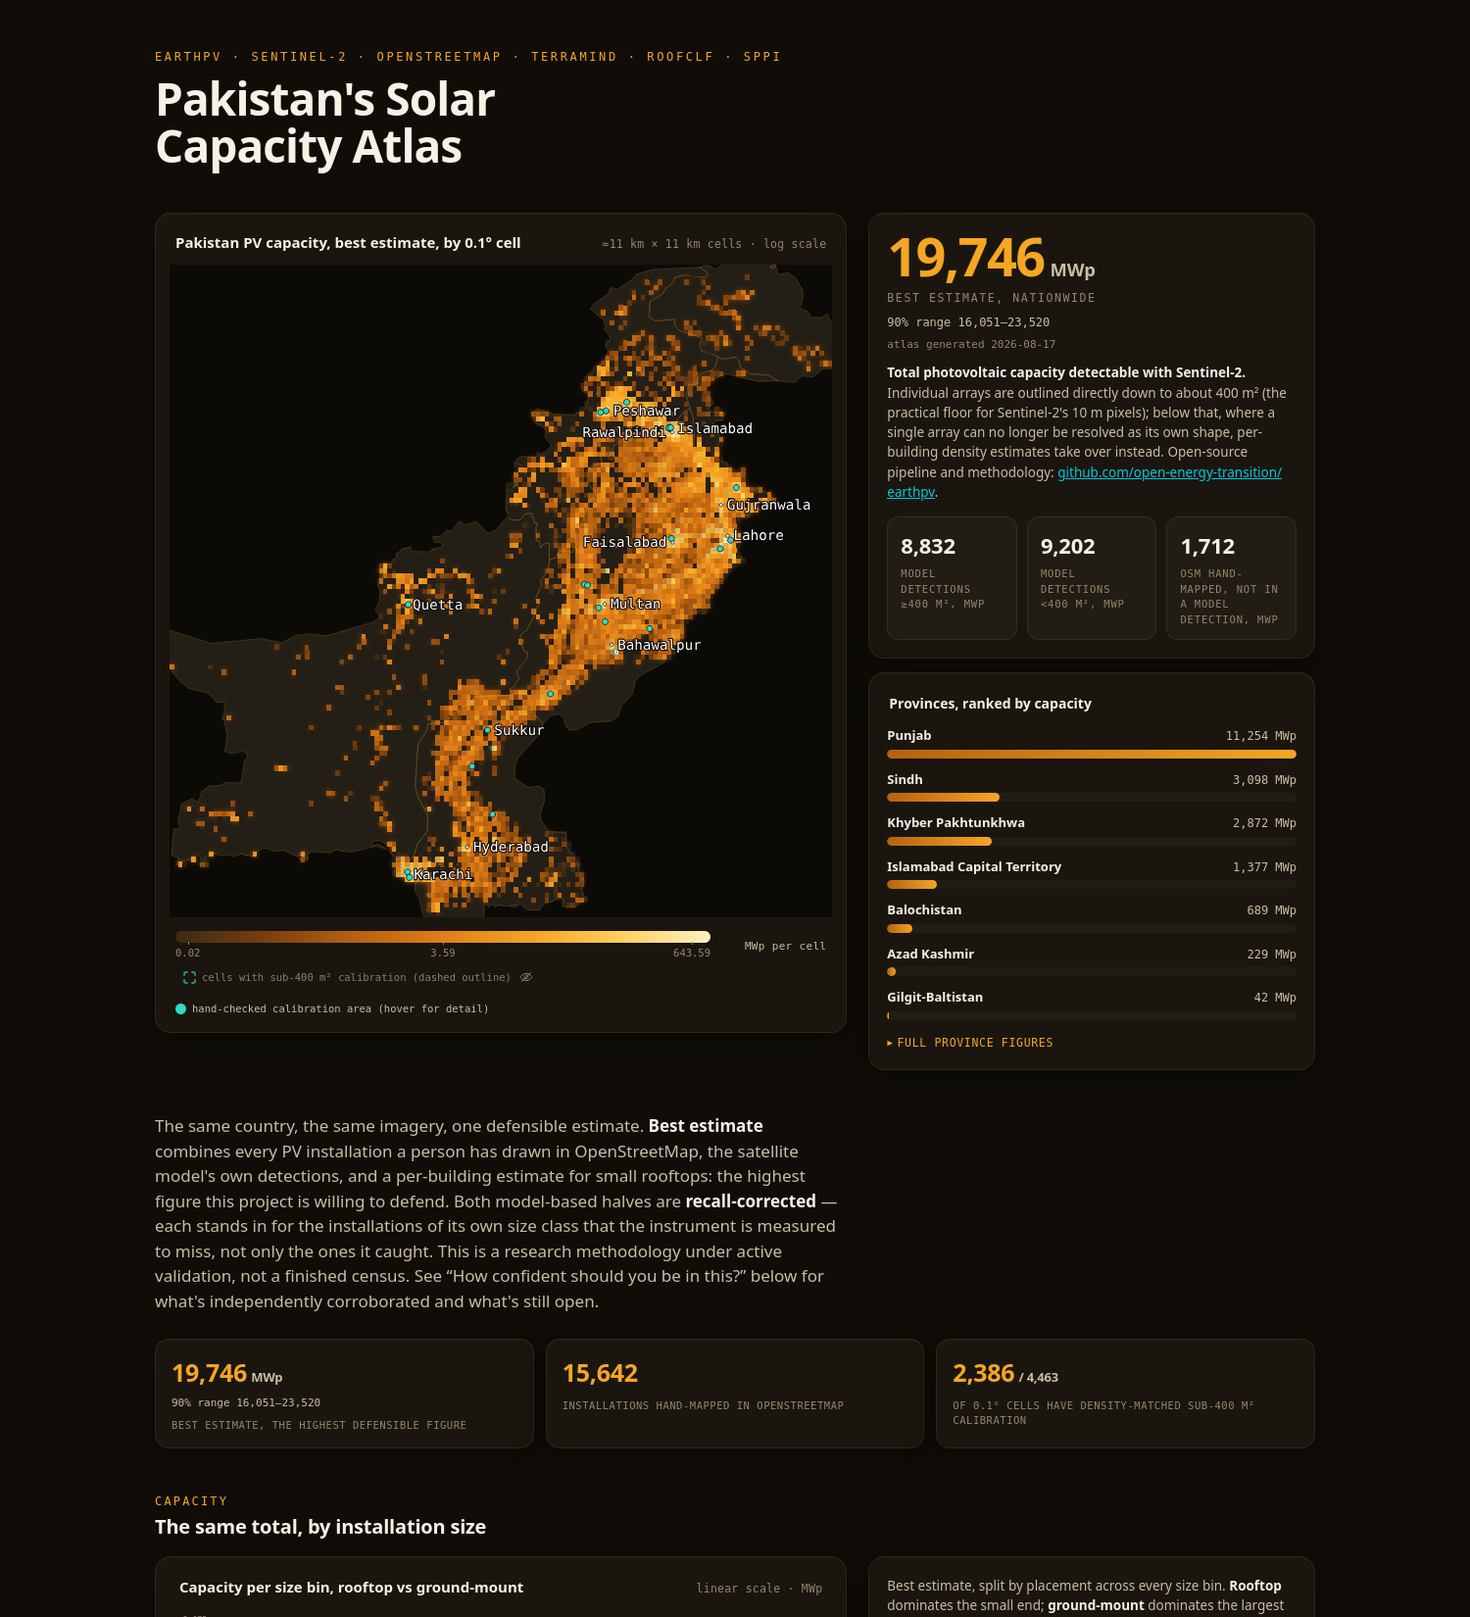
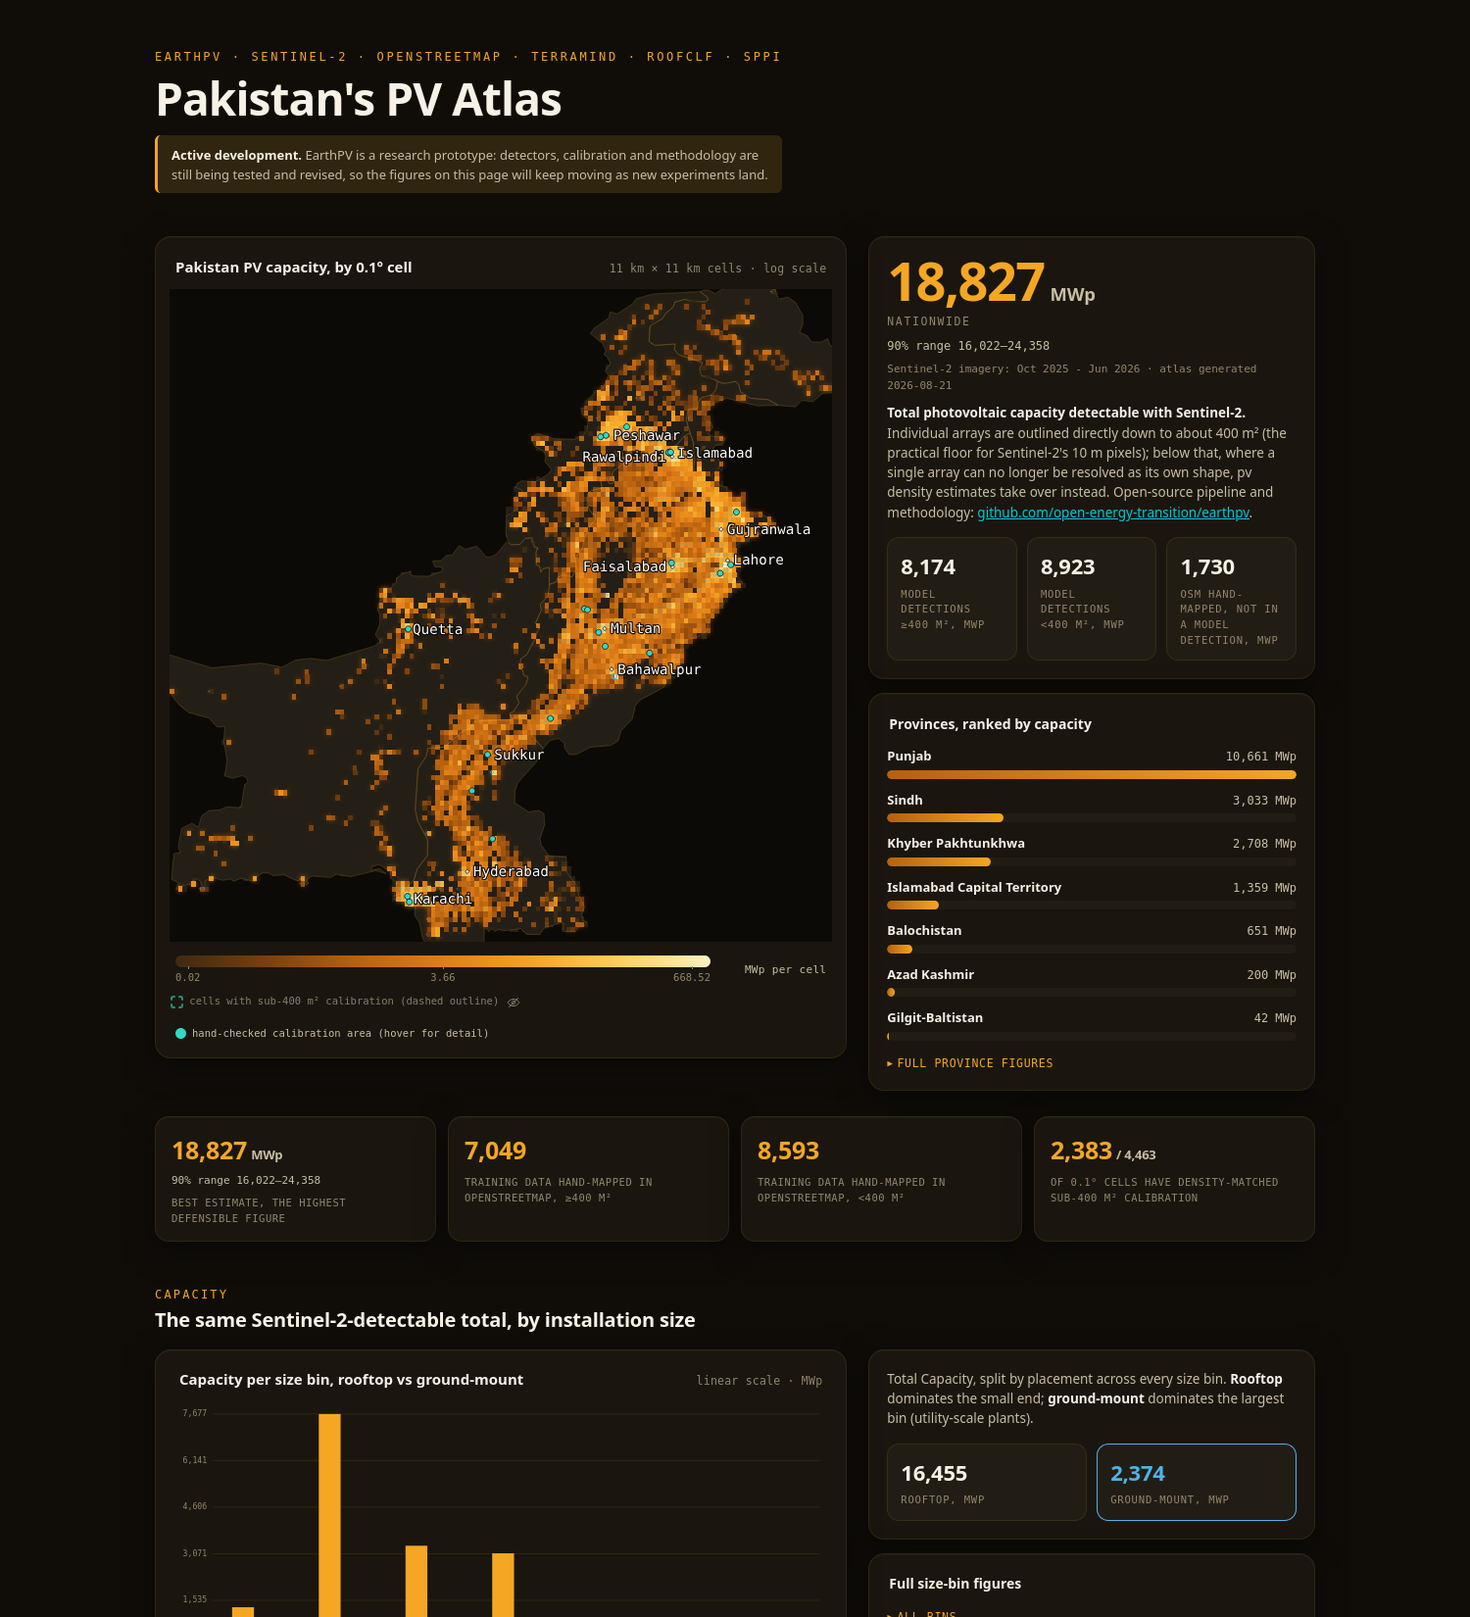
added images

diff --git a/scripts/build_docs_figures.py b/scripts/build_docs_figures.py
@@ -1840,6 +1840,166 @@ def write_roofclf_diagram():
         print(f"  wrote {path.relative_to(ROOT)}")
 
 
+# ---------------------------------------------- generated evidence-atlas workflow diagram
+#
+# The architecture diagram above maps the whole system at once, auxiliary instruments
+# included; this one is the companion the README and the Overview page embed. It shows
+# only the main workflow -- the two detectors that feed the published evidence atlas,
+# the ground truth both are measured against, and how their numbers are de-duplicated
+# and floored into one headline figure. Path colours follow COMPOSITION_SLOT (blue =
+# segmentation, orange = roofclf, teal = hand-mapped OSM) so this diagram and the atlas
+# composition chart never disagree on what a source looks like.
+
+EVW_W = 1150
+EVW_H = 890
+# Transcribed from the 2026-08-20 Box 18 refit's published atlas (`data/` and `results/`
+# are gitignored, so the docs CI can read neither) -- same caveat as ROOFCLF_STATS
+# above: re-transcribe these in the same commit as any pipeline run that moves the
+# atlas, together with the alt text in README.md and docs/index.md.
+EVW_STATS = {
+    "n_quadrats": 30,
+    "pct_domain_cells": 66,       # 2,957 of 4,463 national cells
+    "pct_domain_buildings": 95,   # 94.7% of national buildings
+    "mwp_best": 18827,
+    "ci_lo": 16022,
+    "ci_hi": 24358,
+}
+
+
+def build_evidence_workflow_svg(t: Theme) -> str:
+    boxes: dict[str, tuple[float, float, float, float]] = {}
+    parts: list[str] = []
+    s = EVW_STATS
+
+    def box(key, x, y, w, h, title, lines, stroke=None):
+        _svg_box(parts, boxes, t, key, x, y, w, h, title, lines, stroke)
+
+    def arrow(k1, k2, color, *, from_side="bottom", to_side="top", label=None):
+        sx, sy = _svg_anchor(boxes, k1, from_side)
+        tx, ty = _svg_anchor(boxes, k2, to_side)
+        if abs(sy - ty) < 1:  # horizontal hop between neighbours in one lane
+            path = f"M{sx:.0f},{sy:.0f} H{tx:.0f}"
+        else:
+            path = _elbow(sx, sy, tx, ty)
+        marker_id = f"ah-{color.lstrip('#')}-{t.name}"
+        parts.append(f'<path d="{path}" stroke="{color}" stroke-width="1.7" fill="none" '
+                     f'marker-end="url(#{marker_id})"/>')
+        if label:
+            mx, my = (sx + tx) / 2, (sy + ty) / 2 - 6
+            parts.append(f'<text x="{mx:.0f}" y="{my:.0f}" font-size="9.2" fill="{color}" '
+                         f'text-anchor="middle">{_esc(label)}</text>')
+
+    def lane_label(text, y):
+        parts.append(f'<text x="{ARCH_MARGIN}" y="{y:.0f}" font-size="11.3" '
+                     f'font-weight="600" fill="{t.ink_dim}">{_esc(text)}</text>')
+
+    def note(text, y):
+        parts.append(f'<text x="{ARCH_MARGIN}" y="{y:.0f}" font-size="9.6" '
+                     f'font-style="italic" fill="{t.ink_dim}">{_esc(text)}</text>')
+
+    title = "How the evidence atlas is built"
+    subtitle = ("Two detectors, split by placement and calibration coverage rather than by "
+                "size alone, measured against hand-mapped ground truth and combined into one "
+                "defensible figure.")
+    parts.append(f'<text x="{ARCH_MARGIN}" y="38" font-size="17.5" font-weight="600" '
+                 f'fill="{t.ink}">{_esc(title)}</text>')
+    parts.append(f'<text x="{ARCH_MARGIN}" y="60" font-size="12" fill="{t.ink_dim}">'
+                 f'{_esc(subtitle)}</text>')
+
+    # Lane A - inputs
+    lane_label("What goes in - all of it free and global", 84)
+    xa, wa = _row_x(3, gap=40, width=EVW_W - 2 * ARCH_MARGIN)
+    box("a1", xa[0], 90, wa, 88, "Sentinel-2 imagery",
+        ["10 m dry-season composites,", "refreshed every five days;", "both detectors read it"])
+    box("a2", xa[1], 90, wa, 88, "OpenStreetMap solar",
+        ["hand-mapped installations:", "training labels, and counted", "directly in the atlas"],
+        stroke=t.s3)
+    box("a3", xa[2], 90, wa, 88, "Building footprints",
+        ["VIDA (Google + Microsoft):", "every roof, including small", "unmapped ones"])
+
+    # Lane B - the two detectors
+    lane_label("Two detectors", 232)
+    xb, wb = _row_x(2, gap=90, width=EVW_W - 2 * ARCH_MARGIN)
+    box("b1", xb[0], 238, wb, 88, "Segmentation (TerraMind fine-tune)",
+        ["outlines individual arrays ≥ 400 m² directly in the pixels;",
+         "the only instrument for ground-mount PV at any size,",
+         "and the source of every human-checkable mapping lead"], stroke=t.s2)
+    box("b2", xb[1], 238, wb, 88, "roofclf, cross-checked with SPPI",
+        ["asks \"does this roof carry PV?\" for every building;",
+         "the only instrument below 400 m², and the better",
+         "rooftop one wherever it has been calibrated"], stroke=t.s1)
+
+    # Lane C - calibration against ground truth. Keep this label short: the arrows out
+    # of lane B drop through the label band, and a long label collides with them.
+    lane_label("Calibration", 380)
+    xc, wc = _row_x(3, gap=40, width=EVW_W - 2 * ARCH_MARGIN)
+    box("c1", xc[0], 386, wc, 88, "Precision + recall calibration",
+        ["each detection weighted by", "measured P(real | size, glint,",
+         "placement), then recall-corrected"], stroke=t.s2)
+    box("c0", xc[1], 386, wc, 88, f"Ground truth: {s['n_quadrats']} quadrats",
+        ["hand-mapped boxes with every", "visible panel traced; the",
+         "measuring stick for both sides"])
+    box("c2", xc[2], 386, wc, 88, "Coverage ratio + area recall",
+        ["fit per building size and density", "stratum; trusted only where cell density",
+         f"matches: {s['pct_domain_cells']}% of cells, {s['pct_domain_buildings']}% of buildings"],
+        stroke=t.s1)
+
+    # Lane D - combine
+    lane_label("Combined, never double-counted", 528)
+    dw = 640.0
+    box("d1", (EVW_W - dw) / 2, 534, dw, 122, "One best instrument per component",
+        ["ground-mount at any size: segmentation",
+         "rooftop ≥ 400 m²: roofclf inside its calibrated cells, segmentation elsewhere",
+         "rooftop < 400 m²: roofclf, cross-checked with SPPI",
+         "hand-mapped OSM counts first; detections overlapping it are removed",
+         "each cell floored at OSM plus the stricter roofclf-AND-SPPI agreement"])
+
+    # Lane E - output
+    lane_label("Published output", 710)
+    ew = 500.0
+    box("e1", (EVW_W - ew) / 2, 716, ew, 64, "Evidence atlas",
+        [f"Best estimate {s['mwp_best']:,} MWp, 90% range {s['ci_lo']:,} - {s['ci_hi']:,},",
+         "per 0.1° cell and province, with the size split made explicit"], stroke=t.s3)
+
+    note("Hand-mapped OSM also flows into the combine step directly, as its own component "
+         "and as part of the per-cell floor (long arrow omitted for clarity).", 816)
+    note("Blue = segmentation path, orange = roofclf path, teal = hand-mapped OpenStreetMap "
+         "- the same colours the atlas composition chart uses for these sources.", 834)
+    note("The 90% range composes the measured calibration uncertainties above instead of "
+         "hiding them; the headline is a modelled estimate, not a metered figure.", 852)
+
+    arrow("a1", "b1", t.s2)
+    arrow("a1", "b2", t.s1)
+    arrow("a2", "b1", t.ink_dim, label="training labels")
+    arrow("a3", "b2", t.ink_dim, label="one row per roof")
+    arrow("b1", "c1", t.s2)
+    arrow("b2", "c2", t.s1)
+    arrow("c0", "c1", t.ink_dim, from_side="left", to_side="right")
+    arrow("c0", "c2", t.ink_dim, from_side="right", to_side="left")
+    arrow("c1", "d1", t.s2)
+    arrow("c2", "d1", t.s1)
+    arrow("d1", "e1", t.ink_dim)
+
+    markers = _svg_markers(t)
+    return (
+        f'<svg xmlns="http://www.w3.org/2000/svg" width="{EVW_W}" height="{EVW_H}" '
+        f'viewBox="0 0 {EVW_W} {EVW_H}" font-family="DejaVu Sans, system-ui, sans-serif">'
+        f'<defs>{"".join(markers)}</defs>'
+        f'<rect width="{EVW_W}" height="{EVW_H}" rx="10" fill="{t.surface}"/>'
+        f'{"".join(parts)}</svg>'
+    )
+
+
+def write_evidence_workflow_diagram():
+    OUT.mkdir(parents=True, exist_ok=True)
+    for t in THEMES:
+        svg = build_evidence_workflow_svg(t)
+        suffix = ".svg" if t.name == "light" else ".dark.svg"
+        path = OUT / f"evidence_workflow{suffix}"
+        path.write_text(svg)
+        print(f"  wrote {path.relative_to(ROOT)}")
+
+
 def write_svg_pair(template: str, stem: str):
     for t in THEMES:
         svg = template.format(surface=t.surface, ink=t.ink, dim=t.ink_dim, rule=t.rule,
@@ -1852,6 +2012,32 @@ def write_svg_pair(template: str, stem: str):
 
 
 # ------------------------------------------------------------------- raster crop
+
+
+GLINT_HERO_SRC = ROOT / "docs" / "glint_examples_HR" / "glint8.png"
+
+
+def derive_glint_example():
+    """Half-size, JPEG-compressed copy of the README/Overview glint hero.
+
+    The gallery page keeps the full-resolution PNG (1.3 MB); the two landing-page
+    embeds only need half the pixels and a fraction of the bytes, so they read this
+    derived copy instead. The source is tracked, so CI can rebuild it too.
+    """
+    try:
+        from PIL import Image
+    except ImportError:
+        print("  pillow not installed, skipping glint example derivation")
+        return
+    if not GLINT_HERO_SRC.exists():
+        print(f"  {GLINT_HERO_SRC.relative_to(ROOT)} missing, skipping glint example")
+        return
+    OUT.mkdir(parents=True, exist_ok=True)
+    im = Image.open(GLINT_HERO_SRC).convert("RGB")
+    im = im.resize((im.width // 2, im.height // 2), Image.LANCZOS)
+    dst = OUT / "glint_example.jpg"
+    im.save(dst, quality=82, optimize=True)
+    print(f"  wrote {dst.relative_to(ROOT)} ({im.width}x{im.height})")
 
 
 def crop_hero_map():
@@ -2042,10 +2228,12 @@ def main():
     write_svg_pair(PIPELINE_STRIP, "two_products")
     write_architecture_diagram()
     write_roofclf_diagram()
+    write_evidence_workflow_diagram()
     print("logo")
     derive_logo()
     print("rasters")
     crop_hero_map()
+    derive_glint_example()
     print("static rasters")
     copy_static_rasters()
     print("interactive pages")

diff --git a/docs/index.md b/docs/index.md
@@ -31,9 +31,19 @@ EarthPV fine-tunes the open **TerraMind** geospatial foundation model, developed
 built and measured; the plan is to run the same pipeline everywhere Sentinel-2 flies. See
 [Scaling worldwide](#scaling-worldwide).
 
+[![The earthpv evidence atlas: Pakistan's rooftop solar capacity, best estimate 18,827 MWp (90 percent range 16,022 to 24,358) -- a night-lights style map of estimated capacity per 0.1 degree cell concentrated in the Punjab corridor and the Karachi industrial belt.](assets/figures/pakistan_evidence_atlas.png)](results/capacity.md)
+
+*This project's own highest defensible figure, not a bare point estimate: hand-mapped
+OpenStreetMap installations, the model's own recall-corrected detections, and a
+per-building density estimate for small rooftops, with a 90 percent range attached.
+[Open the interactive version](results/capacity.md).*
+
 ## The Main Workflow
 
 This is earthpv’s default pipeline and primary output. It combines two detectors, each evaluated against ground truth, into a single evidence atlas. Their roles are divided by installation placement and calibration coverage rather than by a strict size threshold. In particular, `roofclf` now extends beyond its original sub-400 m² range to larger rooftops wherever calibration supports its use.
+
+![The evidence atlas workflow: Sentinel-2 imagery, OpenStreetMap solar mapping and VIDA building footprints feed two detectors, TerraMind segmentation for arrays of 400 square metres and above plus all ground-mount, and the per-building roofclf classifier cross-checked with SPPI. Both are calibrated against 30 hand-mapped ground-truth quadrats, then combined one best instrument per component with overlaps removed and each cell floored at hand-mapped OSM plus roofclf-and-SPPI agreement, producing the published evidence atlas: Best estimate 18,827 MWp with a 90 percent range of 16,022 to 24,358.](assets/figures/evidence_workflow.svg#only-light)
+![The evidence atlas workflow: Sentinel-2 imagery, OpenStreetMap solar mapping and VIDA building footprints feed two detectors, TerraMind segmentation for arrays of 400 square metres and above plus all ground-mount, and the per-building roofclf classifier cross-checked with SPPI. Both are calibrated against 30 hand-mapped ground-truth quadrats, then combined one best instrument per component with overlaps removed and each cell floored at hand-mapped OSM plus roofclf-and-SPPI agreement, producing the published evidence atlas: Best estimate 18,827 MWp with a 90 percent range of 16,022 to 24,358.](assets/figures/evidence_workflow.dark.svg#only-dark)
 
 ### Segmentation
 
@@ -91,7 +101,7 @@ These instruments support, extend, or test the main workflow. They are not alter
 
 Glint analysis provides an independent physical confirmation of PV presence and can also recover panel tilt and orientation. Glass-fronted panels behave partly like mirrors, producing flashes in Sentinel-2 imagery on dates predicted by the geometry between the Sun, panel, and satellite. Two or more geometrically consistent flashes strengthen confidence that PV is present. In the main workflow, glint is used only as a boost to lead ranking and is never required to produce the evidence atlas.
 
-[![High-resolution basemap imagery of a rooftop PV array caught mid-glint: the panels saturate fully white and the overload spills off the roof as a rainbow smear of detector-blooming artifacts across the neighbouring buildings.](glint_examples_HR/glint8.png)](glint_examples.md)
+[![High-resolution basemap imagery of a rooftop PV array caught mid-glint: the panels saturate fully white and the overload spills off the roof as a rainbow smear of detector-blooming artifacts across the neighbouring buildings.](assets/figures/glint_example.jpg){ width="50%" }](glint_examples.md)
 
 *The physical event the glint check looks for, caught in sub-metre commercial imagery: the array's specular reflection is so intense it saturates the sensor outright, blooming into a rainbow smear across the neighbouring rooftops. At Sentinel-2's 10 m the same event is a single bright pixel-cluster on one predictable date. More examples in the [glint image gallery](glint_examples.md).*
 
@@ -102,13 +112,6 @@ Growth analysis estimates when installations appeared by comparing a pre-boom 20
 #### Other evaluated instruments
 
 Additional methods retained in the repository include a fraction-head expected-area model, SPPI as a standalone detector, an earlier Low/Central/High/All-PV bracket atlas, and a rooftop potential and saturation atlas. Each was evaluated even where it was not promoted into the final workflow. See [Experiments](experiments.md) for the methods tested and the rationale behind the final pipeline.
-
-[![The earthpv evidence atlas: Pakistan's rooftop solar capacity, best estimate 18,827 MWp (90 percent range 16,022 to 24,358) -- a night-lights style map of estimated capacity per 0.1 degree cell concentrated in the Punjab corridor and the Karachi industrial belt.](assets/figures/pakistan_evidence_atlas.png)](results/capacity.md)
-
-*This project's own highest defensible figure, not a bare point estimate: hand-mapped
-OpenStreetMap installations, the model's own recall-corrected detections, and a
-per-building density estimate for small rooftops, with a 90 percent range attached.
-[Open the interactive version](results/capacity.md).*
 
 ## Scaling worldwide
 

diff --git a/README.md b/README.md
@@ -39,6 +39,20 @@ on imagery or licences that only exist in one country.
 built and measured; the plan is to run the same pipeline everywhere Sentinel-2 flies. See
 [Scaling worldwide](#scaling-worldwide).
 
+<p align="center">
+  <a href="https://open-energy-transition.github.io/earthpv/results/capacity/">
+    <img src="docs/assets/figures/pakistan_evidence_atlas.png" width="560"
+         alt="The earthpv evidence atlas: Pakistan's rooftop solar capacity, best estimate 18,827 MWp (90 percent range 16,022 to 24,358) -- a night-lights style map of estimated capacity per 0.1 degree cell concentrated in the Punjab corridor and the Karachi industrial belt.">
+  </a>
+</p>
+
+<p align="center"><em>This project's own highest defensible figure, not a bare point
+estimate: hand-mapped OpenStreetMap installations, the model's own recall-corrected
+detections, and a per-building density estimate for small rooftops, with a 90 percent
+range attached.
+<a href="https://open-energy-transition.github.io/earthpv/results/capacity/">Open the
+interactive version</a>.</em></p>
+
 ## The main workflow: two detectors, split by placement and calibration coverage, one evidence atlas
 
 This is earthpv's default pipeline and primary output. No single instrument covers
@@ -46,6 +60,11 @@ rooftop solar at every scale, so it runs two, each measured against ground truth
 combines them into one product. The split is **not** a clean size boundary: roofclf's
 reach now extends past its original sub-400 m² floor into large rooftops too, wherever
 it has been calibrated to do so.
+
+<p align="center">
+  <img src="docs/assets/figures/evidence_workflow.svg" width="720"
+       alt="The evidence atlas workflow: Sentinel-2 imagery, OpenStreetMap solar mapping and VIDA building footprints feed two detectors -- TerraMind segmentation for arrays of 400 square metres and above plus all ground-mount, and the per-building roofclf classifier cross-checked with SPPI. Both are calibrated against 30 hand-mapped ground-truth quadrats, then combined one best instrument per component with overlaps removed and each cell floored at hand-mapped OSM plus roofclf-and-SPPI agreement, producing the published evidence atlas: Best estimate 18,827 MWp with a 90 percent range of 16,022 to 24,358.">
+</p>
 
 **Segmentation, the source of every mapping lead, and of ground-mount capacity at any
 size.** A fine-tuned TerraMind-tiny outlines panels directly, exported as ranked
@@ -127,7 +146,7 @@ never required to produce the evidence atlas.
 
 <p align="center">
   <a href="https://open-energy-transition.github.io/earthpv/glint_examples/">
-    <img src="docs/glint_examples_HR/glint8.png" width="560"
+    <img src="docs/assets/figures/glint_example.jpg" width="280"
          alt="High-resolution basemap imagery of a rooftop PV array caught mid-glint: the panels saturate fully white and the overload spills off the roof as a rainbow smear of detector-blooming artifacts across the neighbouring buildings.">
   </a>
 </p>
@@ -152,20 +171,6 @@ atlas exist too, each measured and each kept in the repository whether or not it
 promoted -- see
 [Experiments](https://open-energy-transition.github.io/earthpv/experiments/)
 for what was tried and why the main workflow above is what shipped.
-
-<p align="center">
-  <a href="https://open-energy-transition.github.io/earthpv/results/capacity/">
-    <img src="docs/assets/figures/pakistan_evidence_atlas.png" width="560"
-         alt="The earthpv evidence atlas: Pakistan's rooftop solar capacity, best estimate 18,827 MWp (90 percent range 16,022 to 24,358) -- a night-lights style map of estimated capacity per 0.1 degree cell concentrated in the Punjab corridor and the Karachi industrial belt.">
-  </a>
-</p>
-
-<p align="center"><em>This project's own highest defensible figure, not a bare point
-estimate: hand-mapped OpenStreetMap installations, the model's own recall-corrected
-detections, and a per-building density estimate for small rooftops, with a 90 percent
-range attached.
-<a href="https://open-energy-transition.github.io/earthpv/results/capacity/">Open the
-interactive version</a>.</em></p>
 
 ## Scaling worldwide
 
